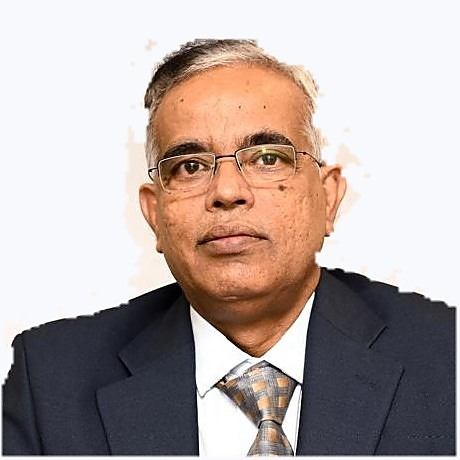
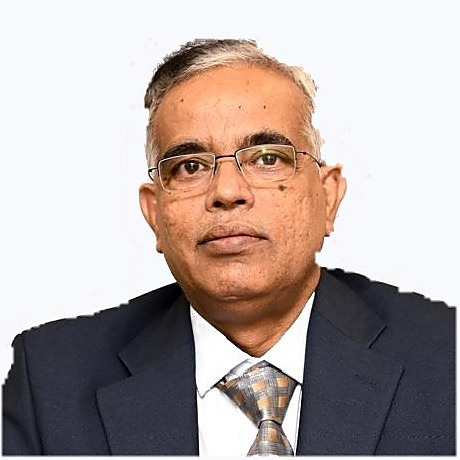
Correct subsidy claims: we guide the application, customer files it. Clean portrait.

diff --git a/index.html b/index.html
@@ -80,7 +80,7 @@
       <span class="hero__tagline" data-site="tagline">Harness the Sun, Empower the Future.</span>
       <p class="hero__sub">
         As an authorised dealer for two of India's most trusted solar names, we supply and install
-        genuine panels — and we handle your government subsidy paperwork from start to finish.
+        genuine panels — and we walk you through the government subsidy application from start to finish.
         Free site survey. Honest numbers. No pressure.
       </p>
 
@@ -307,7 +307,7 @@
       <div class="reveal">
         <span class="eyebrow">How it works</span>
         <h2>From your first call to free electricity</h2>
-        <p class="lede">Going solar involves the discom, the national portal and a physical installation. We handle every part of it — you only sign where needed.</p>
+        <p class="lede">Going solar involves the discom, the national portal and a physical installation. We do the installation and take you through the rest step by step — the subsidy is paid into your account, so that application stays in your name.</p>
         <div class="btn-row" style="margin-top:1.5rem">
           <a class="btn btn--dark" href="contact.html#enquiry">Book a free site survey</a>
         </div>
@@ -316,7 +316,7 @@
       <div class="steps" data-stagger>
         <div class="step reveal"><h3>Free site survey</h3><p>We visit, measure your shadow-free roof area, check your sanctioned load and read your last few bills.</p></div>
         <div class="step reveal" data-delay="60"><h3>Honest proposal</h3><p>You get a written quote with the exact panel model, inverter, structure, subsidy amount and payback period. No hidden extras.</p></div>
-        <div class="step reveal" data-delay="120"><h3>Subsidy &amp; discom paperwork</h3><p>We register you on the National Portal, submit the discom application and get technical feasibility approval.</p></div>
+        <div class="step reveal" data-delay="120"><h3>Subsidy &amp; discom application</h3><p>We sit with you through the National Portal registration and the discom application, tell you exactly which documents are needed, and check it before you submit.</p></div>
         <div class="step reveal" data-delay="180"><h3>Installation</h3><p>Panels, mounting structure, inverter, earthing and cabling — typically completed in two to four days.</p></div>
         <div class="step reveal" data-delay="240"><h3>Net meter &amp; commissioning</h3><p>We coordinate the discom inspection and net meter installation, then upload the commissioning report.</p></div>
         <div class="step reveal" data-delay="300"><h3>Subsidy in your account</h3><p>The central subsidy is credited directly to your bank account, usually within 30–45 days of commissioning.</p></div>
@@ -341,8 +341,8 @@
       </div>
       <div class="card reveal" data-delay="80">
         <div class="card__icon"><svg viewBox="0 0 24 24" fill="none" stroke="currentColor" stroke-width="2" stroke-linecap="round" stroke-linejoin="round"><rect x="3" y="4" width="18" height="17" rx="2"/><path d="M16 2v4M8 2v4M3 10h18"/></svg></div>
-        <h3>We finish the paperwork</h3>
-        <p>Subsidy applications stall on small errors. We track your file through the portal and the discom until the money is in your account — not just until the panels are on the roof.</p>
+        <h3>We stay with you to the subsidy</h3>
+        <p>Subsidy applications stall on small errors. The application is yours to file — the money goes to your account — but we check it before it goes in, and we keep helping until it lands. Not just until the panels are on the roof.</p>
       </div>
       <div class="card reveal" data-delay="160">
         <div class="card__icon"><svg viewBox="0 0 24 24" fill="none" stroke="currentColor" stroke-width="2" stroke-linecap="round" stroke-linejoin="round"><path d="M14.7 6.3a5 5 0 00-7.07 7.07l1.42 1.41 5.65-5.65z"/><path d="M9 15l-5.5 5.5M15 9l6-6"/></svg></div>

diff --git a/assets/js/config.js b/assets/js/config.js
@@ -102,8 +102,12 @@ const SITE = {
       { icon: 'survey',  title: 'Free site survey and shadow study',
         text: 'We measure your shadow-free area across the whole day before quoting. Most dealers eyeball it from the gate.' },
 
-      { icon: 'doc',     title: 'Subsidy and discom paperwork at no charge', highlight: true,
-        text: 'Portal registration, discom application, feasibility follow-up, net meter and commissioning upload. Many installers charge ₹3,000–₹5,000 for this, or hand you the forms and wish you luck.' },
+      /* NOTE: we GUIDE, we do not file. The PM Surya Ghar subsidy is paid
+         straight into the consumer's own bank account, so the application
+         has to be in their name and made by them. Do not reword this into
+         "we handle your paperwork" — it is not what the business does. */
+      { icon: 'doc',     title: 'We walk you through the subsidy application', highlight: true,
+        text: 'The subsidy is paid directly into your bank account, so the application has to be yours. We show you exactly what to do at each stage — portal registration, the discom application, feasibility, net meter and commissioning — and check your details before you submit. No charge for the guidance.' },
 
       { icon: 'shield',  title: '5 years of maintenance included',
         text: 'Performance checks and service visits for the first five years, as required under MNRE quality standards for rooftop solar. Ours is written into the quotation so you can hold us to it.' },
@@ -232,7 +236,8 @@ const SITE = {
            is connected to this business — it does not. */
         line: 'Ardhendu spent thirty-five years in electricals and sales, most of that career with ' +
               'Havells, before retiring. He co-owns Bright Solar Engineering and leads the ' +
-              'commercial side — pricing, quotations and the subsidy paperwork.',
+              'commercial side — pricing, quotations, and guiding customers through their subsidy ' +
+              'application.',
         phone: '+91 99370 82488' },
 
       /* ---- SECOND PARTNER ----

diff --git a/about.html b/about.html
@@ -113,7 +113,7 @@
             <li>Authorised dealer stock only — genuine ALMM List-I modules with verifiable serial numbers</li>
             <li>A full itemised quotation — panels, inverter, structure, cabling, earthing, all of it</li>
             <li>Honest sizing, based on your actual bills and sanctioned load</li>
-            <li>Complete subsidy and discom paperwork handled by us</li>
+            <li>Step-by-step guidance through your subsidy and discom application — it is filed in your name, and we make sure it is right before you submit</li>
             <li>We tell you when solar is <em>not</em> worth it for your roof</li>
             <li>Service response for as long as the system is under warranty</li>
           </ul>
@@ -170,8 +170,8 @@
       </div>
       <div class="card reveal" data-delay="280">
         <div class="card__icon"><svg viewBox="0 0 24 24" fill="none" stroke="currentColor" stroke-width="2" stroke-linecap="round" stroke-linejoin="round"><path d="M14.5 2v6h6"/><path d="M20 9v11a2 2 0 01-2 2H6a2 2 0 01-2-2V4a2 2 0 012-2h8.5z"/><path d="M9 13h6M9 17h4"/></svg></div>
-        <h3>Subsidy &amp; liaison work</h3>
-        <p>National Portal registration, discom applications, feasibility follow-up, net meter coordination and commissioning upload.</p>
+        <h3>Subsidy guidance</h3>
+        <p>The subsidy is paid into your account, so the application is yours to make. We take you through it — National Portal registration, the discom application, feasibility, net meter and commissioning upload — and check each step before you submit.</p>
       </div>
       <div class="card reveal" data-delay="350">
         <div class="card__icon"><svg viewBox="0 0 24 24" fill="none" stroke="currentColor" stroke-width="2" stroke-linecap="round" stroke-linejoin="round"><path d="M14.7 6.3a5 5 0 00-7.07 7.07l1.42 1.41 5.65-5.65z"/><path d="M9 15l-5.5 5.5M15 9l6-6"/></svg></div>

diff --git a/subsidy.html b/subsidy.html
@@ -246,7 +246,7 @@
 
     <div class="btn-row" style="margin-top:2.5rem">
       <a class="btn btn--primary" href="https://www.pmsuryaghar.gov.in/" target="_blank" rel="noopener">Open the official portal ↗</a>
-      <a class="btn btn--ghost" href="contact.html#enquiry">Let us handle the paperwork</a>
+      <a class="btn btn--ghost" href="contact.html#enquiry">Get help with your application</a>
     </div>
   </div>
 </section>
@@ -508,7 +508,7 @@
 <section class="section cta-band">
   <div class="wrap center">
     <h2 class="reveal">We'll handle the whole application for you</h2>
-    <p class="reveal" style="max-width:58ch; margin-inline:auto">Portal registration, discom liaison, feasibility, net meter, commissioning upload — we track your file until the subsidy is in your bank account.</p>
+    <p class="reveal" style="max-width:58ch; margin-inline:auto">Portal registration, the discom application, feasibility, net meter, commissioning upload — the application is yours to file, and we take you through every stage of it until the subsidy reaches your bank account.</p>
     <div class="btn-row reveal" style="margin-top:1.75rem">
       <a class="btn btn--dark" href="contact.html#enquiry">Start my subsidy application</a>
       <a class="btn btn--dark" data-link="whatsapp" href="#" data-wa-msg="Hello, I want help with the PM Surya Ghar subsidy application." style="background:rgba(26,16,0,.12); color:#1a1000; box-shadow:none">Ask on WhatsApp</a>

diff --git a/contact.html b/contact.html
@@ -246,7 +246,7 @@
             <li>We call you back within one working day to understand your requirement.</li>
             <li>We visit your site — free, and with no obligation — to measure the roof and check shading.</li>
             <li>You get a written, itemised quotation with the subsidy amount and payback period.</li>
-            <li>If you're happy, we start the paperwork. If not, no follow-up pestering.</li>
+            <li>If you're happy, we confirm the order and start your subsidy application together. If not, no follow-up pestering.</li>
           </ol>
         </div>
       </div>

diff --git a/products.html b/products.html
@@ -192,7 +192,7 @@
     </p>
 
     <h3 class="reveal" style="margin-top:3rem; margin-bottom:1rem">Complete installed systems</h3>
-    <p class="lede reveal" style="margin-bottom:1.5rem">This is what most customers actually buy — panels, inverter, mounting structure, cabling, earthing, installation and paperwork, all in.</p>
+    <p class="lede reveal" style="margin-bottom:1.5rem">This is what most customers actually buy — panels, inverter, mounting structure, cabling, earthing and installation, all in.</p>
     <div class="table-scroll reveal">
       <table>
         <thead>
